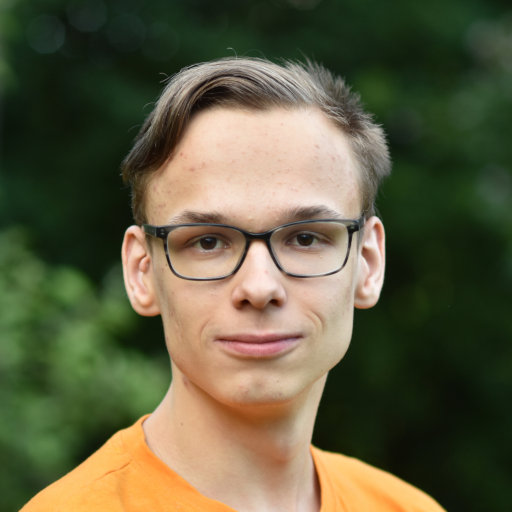
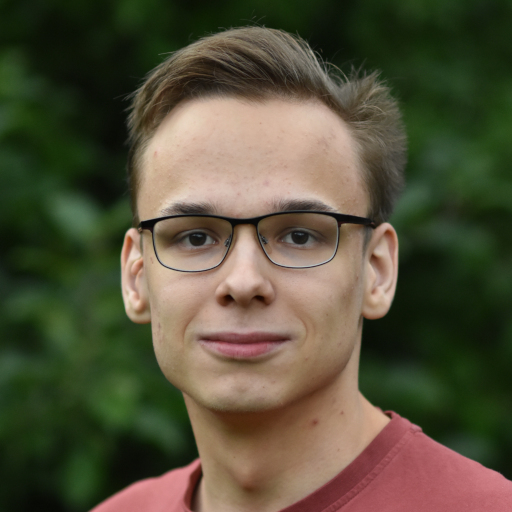
chore: update picture

diff --git a/index.html b/index.html
@@ -582,7 +582,7 @@
     <div class="profile-container">
         <figure class="profile-picture">
             <img src="./assets/profile_picture.jpg" alt="Picture of Antti" width="512" height="512">
-            <figcaption>Picture of Antti from 2022-06-26</figcaption>
+            <figcaption>Picture of Antti from 2024-08-16</figcaption>
         </figure>
         <p>
             I'm just a dude from Finland 🇫🇮 who happens to like
